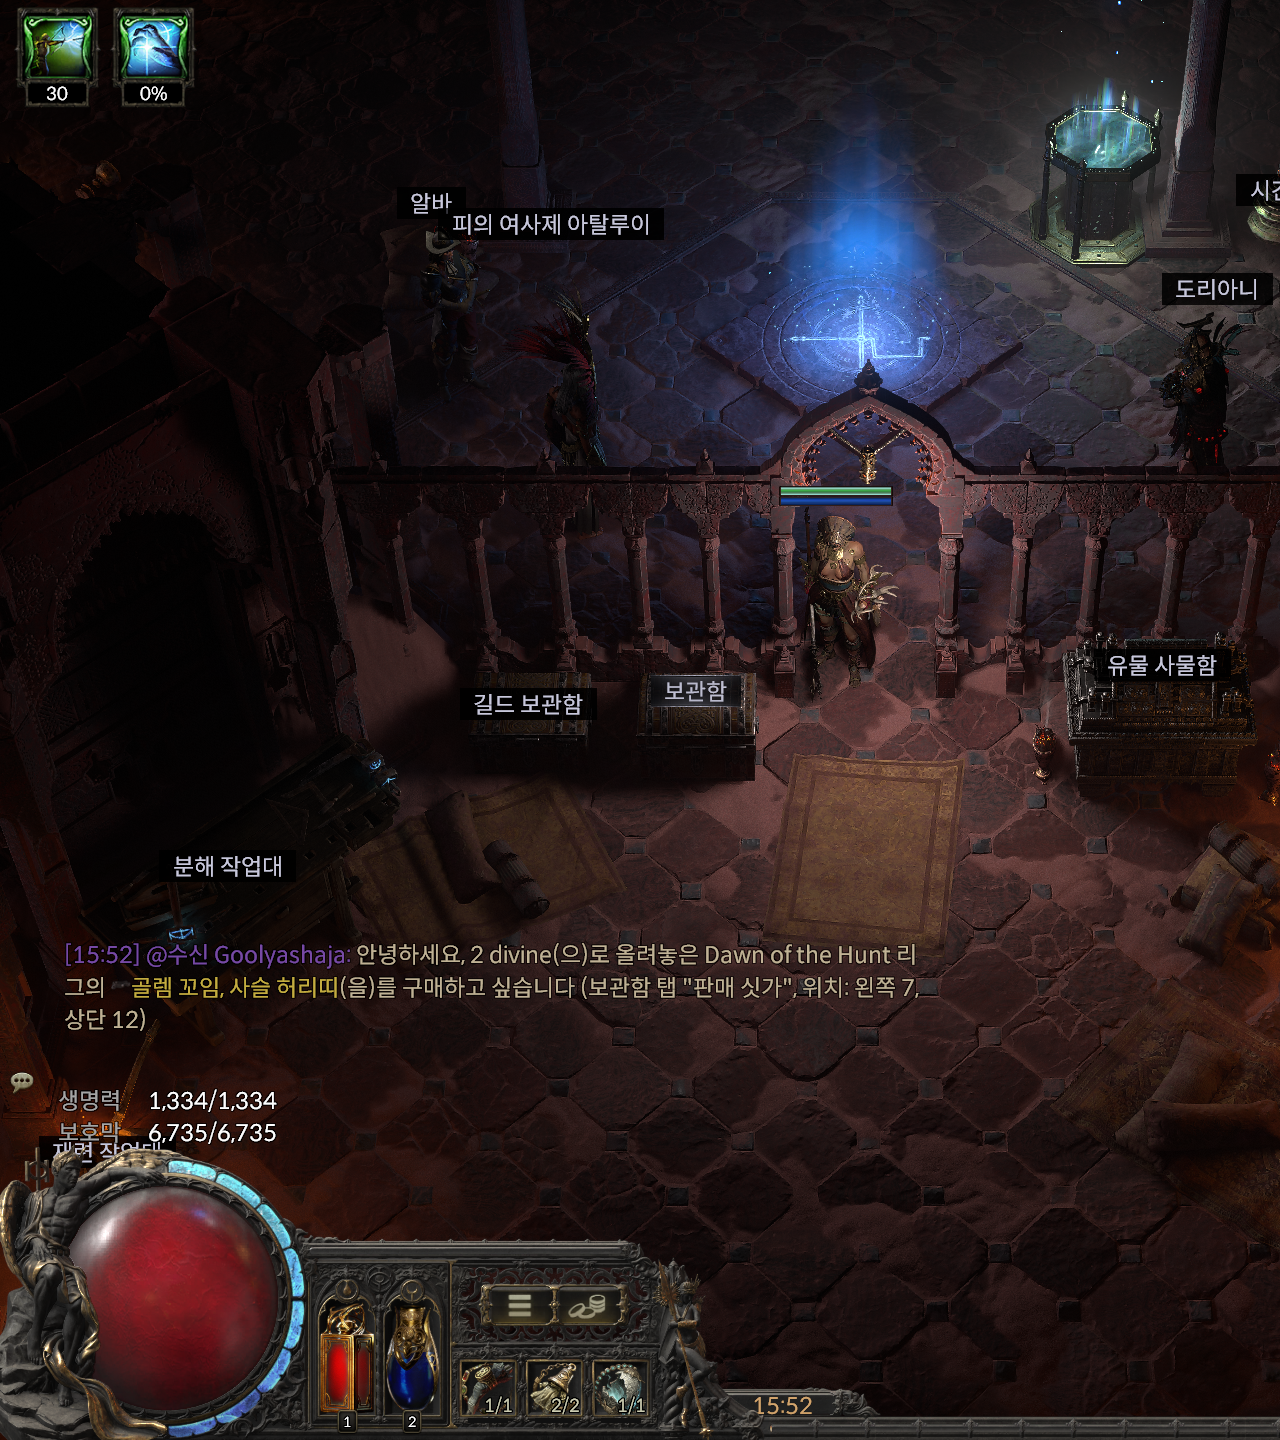
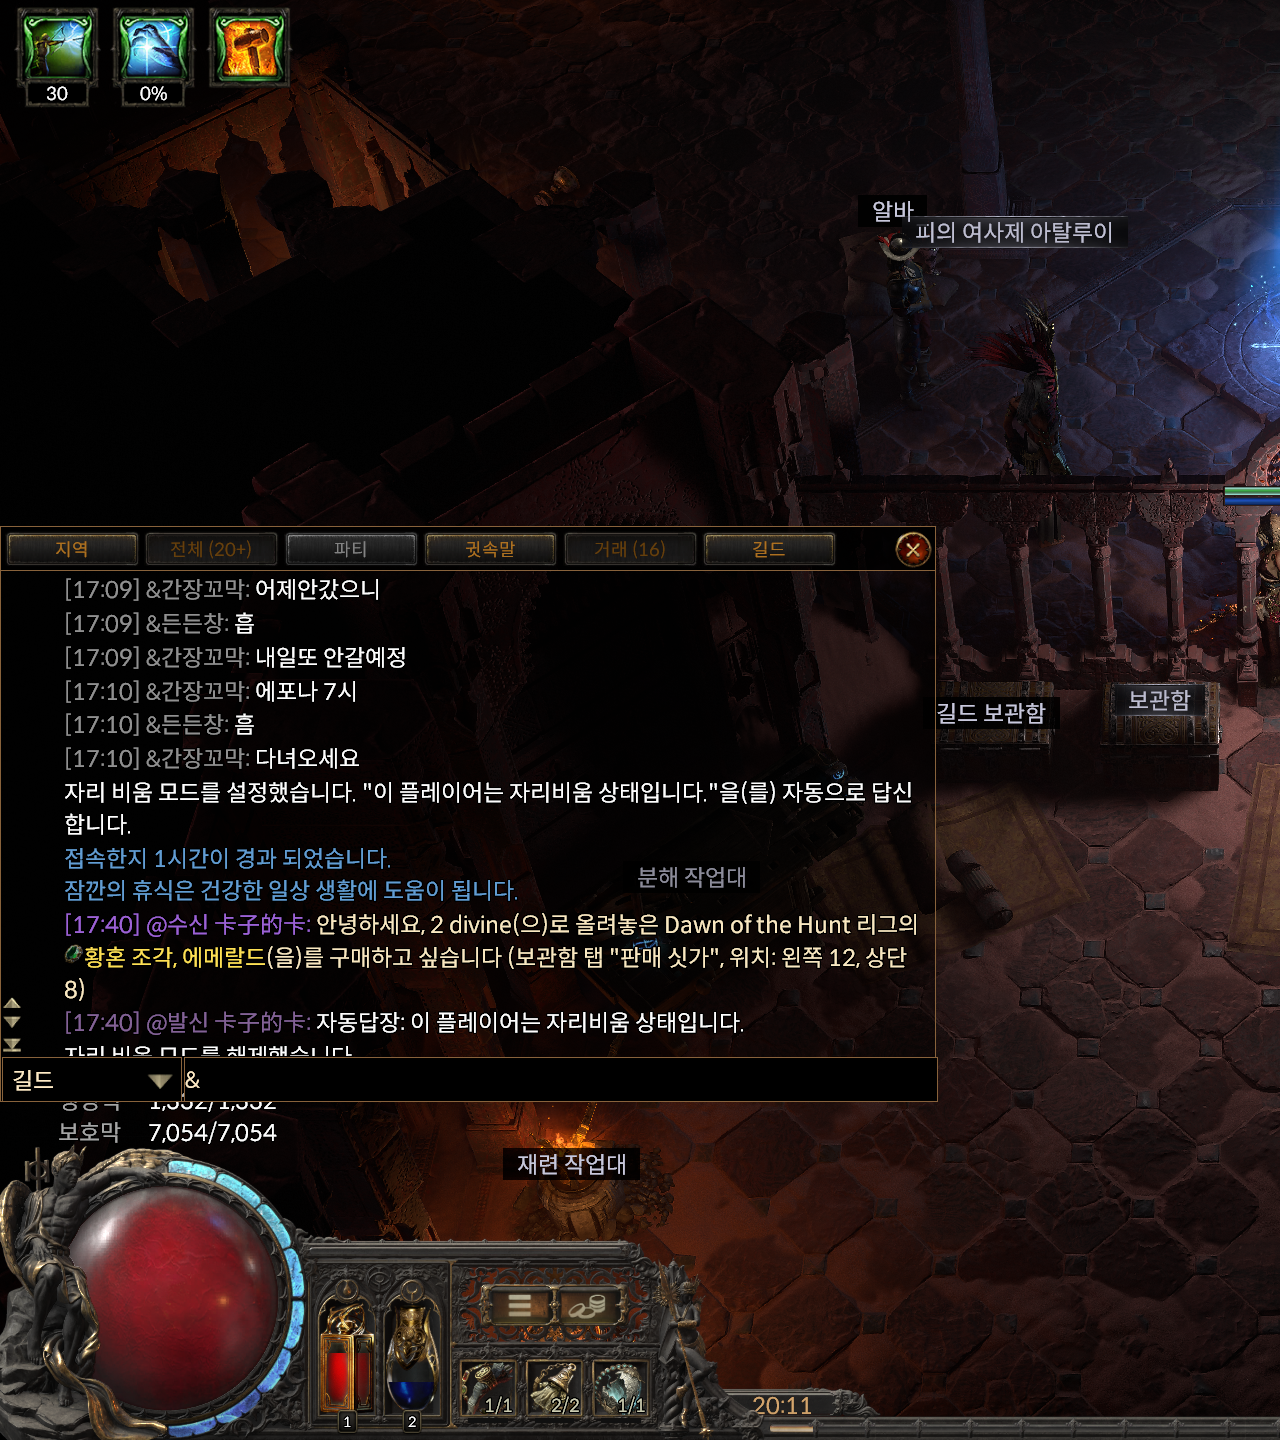
최근 메세지 시간에 맞추어 중복 전송 방지

diff --git a/Client/TextDetectorApplication.cpp b/Client/TextDetectorApplication.cpp
@@ -6,6 +6,7 @@
 #include <iostream>
 #include <curl/curl.h>
 #include <leptonica/allheaders.h>
+#include <regex>
 
 HWND TextDetectorApplication::hWnd = NULL;
 HWND TextDetectorApplication::hEditLog = NULL;
@@ -13,8 +14,10 @@ LogFuncPtr TextDetectorApplication::LogFunc = nullptr;
 LogTimeFuncPtr TextDetectorApplication::LogTimeFunc = nullptr;
 
 tesseract::TessBaseAPI* TextDetectorApplication::tessAPI = nullptr;
+std::wstring TextDetectorApplication::wLastDetectedTime = L"";
 bool TextDetectorApplication::bFirstLogDone = false;
 bool TextDetectorApplication::bClearLogDone = false;
+bool TextDetectorApplication::bAlreadySent = false;
 
 // 한글 변환 (wstring to utf8)
 std::string WStringToUtf8(const std::wstring& wstr)
@@ -35,13 +38,11 @@ void TextDetectorApplication::Initialize(HWND Input_hWnd, HWND Input_hEditLog, L
     LogTimeFunc = timefunc;
 
     // Tesseract API 초기화
+    // 실패시 1반환 -> 메세지 출력
     tessAPI = new tesseract::TessBaseAPI();
     if (tessAPI->Init("C:/Program Files/Tesseract-OCR/tessdata", "kor+eng"))
     {
-        if (LogFunc && LogTimeFunc)
-        {
-            LogFunc(hEditLog, LogTimeFunc() + L" Tesseract 초기화 실패\r\n");
-        }
+        MessageBox(nullptr, L"Tesseract 초기화 실패", L"Tesseract 초기화 실패", MB_OK);
         return;
     }
 }
@@ -79,6 +80,7 @@ void TextDetectorApplication::Run()
 
     if (dwNow - dwLastCaptureTime >= 5000) // 5초마다 캡처
     {
+        bAlreadySent = false;
         dwLastCaptureTime = dwNow;
         HBITMAP CaptureBMP = CaptureScreenToBitmap(); // 캡처 실행
         
@@ -151,19 +153,17 @@ void TextDetectorApplication::SendDiscordMessage(const std::wstring& message)
     curl_easy_setopt(curl, CURLOPT_URL, url);
     curl_easy_setopt(curl, CURLOPT_HTTPPOST, post);
 
-    // 텍스트용
-    //curl_easy_setopt(curl, CURLOPT_URL, url);
-    //curl_easy_setopt(curl, CURLOPT_HTTPHEADER, headers);
-    //curl_easy_setopt(curl, CURLOPT_POSTFIELDS, json_data.c_str());
-
+    // 메세지 전송 오류출력
     CURLcode res = curl_easy_perform(curl);
-    if (res != CURLE_OK) 
+    const char* errMsg = curl_easy_strerror(res);
+    if (res != CURLE_OK)
     {
-        // 에러 메세지 출력 필요
-        // 
-        //OutputDebugStringA("curl_easy_perform() failed: ");
-        //OutputDebugStringA(curl_easy_strerror(res));
-        //OutputDebugStringA("\n");
+        //wchar_t buffer[256];
+        //swprintf_s(buffer, 256, L"Discord 메세지 전송 실패\n오류코드: %d", static_cast<int>(res));
+        //MessageBox(nullptr, buffer, L"Discord 메세지 전송 실패", MB_OK);
+        wchar_t wideMsg[512];
+        swprintf_s(wideMsg, 512, L"Discord 메세지 전송 실패\n오류코드: %d\n설명: %S", res, errMsg);
+        MessageBox(nullptr, wideMsg, L"Discord 메세지 전송 실패", MB_OK);
     }
 
     curl_slist_free_all(headers);
@@ -180,19 +180,27 @@ void TextDetectorApplication::DoScreenOCR(cv::Mat image)
     std::wstring wText(utf8Len, 0);
     MultiByteToWideChar(CP_UTF8, 0, outText, -1, &wText[0], utf8Len);
 
-
-
-    if (wText.find(L"구매") != std::wstring::npos)
+    if (!bAlreadySent && wText.find(L"구매") != std::wstring::npos)
     {
-        if (LogFunc && LogTimeFunc)
-        {
-            LogFunc(hEditLog, LogTimeFunc() + L" 감지됨: 구매자 발견!\r\n");
-        }
+        // 최근 메세지 시간 받아오기
+        std::wstring latestTime;
+        GetDeliveryTime(wText, latestTime);
 
-        // 캡처이미지 저장
-        cv::imwrite("screenshot.png", image);
-        SendDiscordMessage(L"감지됨: 구매하고 싶습니다!");
-        //bAlreadySent = true;
+        if (!latestTime.empty() && latestTime != wLastDetectedTime)
+        {
+            // 최근 메세지 시간 저장
+            wLastDetectedTime = latestTime;
+
+            if (LogFunc && LogTimeFunc)
+            {
+                LogFunc(hEditLog, LogTimeFunc() + L" 감지됨: 구매자 발견!\r\n");
+            }
+
+            // 캡처이미지 저장
+            cv::imwrite("screenshot.png", image);
+            SendDiscordMessage(L"감지됨: 구매하고 싶습니다!");
+            bAlreadySent = true;
+        }
     }
 }
 
@@ -286,6 +294,36 @@ const std::wstring TextDetectorApplication::LoadWebhookFromFile()
     //return url;
 
     return std::wstring();
+}
+
+void TextDetectorApplication::GetDeliveryTime(const std::wstring& text, std::wstring& getTime)
+{
+    if (text.empty())
+    {
+        MessageBox(nullptr, L"TEXT 추출 실패", L"TEXT 내용 없음", MB_OK);
+        return ;
+    }
+
+    // 정규식을 이용해 [시:분] 형식의 문자열 찾기
+    std::wregex timeRegex(LR"(\[(\d{1,2}):(\d{2})\])");
+    std::wsregex_iterator iter(text.begin(), text.end(), timeRegex);
+    std::wsregex_iterator end;
+
+    int maxHour = -1, maxMinute = -1;
+
+    for (; iter != end; ++iter)
+    {
+        int hour = std::stoi((*iter)[1]);
+        int minute = std::stoi((*iter)[2]);
+
+        // 시간 비교
+        if (hour > maxHour || (hour == maxHour && minute > maxMinute))
+        {
+            maxHour = hour;
+            maxMinute = minute;
+            getTime = iter->str(); // [시:분] 전체 문자열
+        }
+    }
 }
 
 void TextDetectorApplication::Release()

diff --git a/Client/main.cpp b/Client/main.cpp
@@ -23,6 +23,7 @@ HWND hButtonSetWebhook;
 std::wstring g_WebhookUrl;
 
 bool bIsDetecting = false;
+const wchar_t* ORIGINAL_TITLE = L"POE2_TradeDetector";
 
 // 이 코드 모듈에 포함된 함수의 선언을 전달합니다:
 ATOM                MyRegisterClass(HINSTANCE hInstance);
@@ -160,7 +161,7 @@ BOOL InitInstance(HINSTANCE hInstance, int nCmdShow)
    int startX = screenX / 2; // 오른쪽 절반 시작 위치
    int startY = screenY / 4;
 
-   HWND hWnd = CreateWindowW(szWindowClass, L"POE2_Message", WS_OVERLAPPEDWINDOW,
+   HWND hWnd = CreateWindowW(szWindowClass, ORIGINAL_TITLE, WS_OVERLAPPEDWINDOW,
        startX + 50, startY, 500, 475, nullptr, nullptr, hInstance, nullptr);
 
    // 기능함수 초기화
@@ -179,9 +180,7 @@ BOOL InitInstance(HINSTANCE hInstance, int nCmdShow)
 
 LRESULT CALLBACK WndProc(HWND hWnd, UINT message, WPARAM wParam, LPARAM lParam)
 {
-
     static HWND hButtonStop;
-    static const wchar_t* ORIGINAL_TITLE = L"POE2_Message";
 
     switch (message)
     {

diff --git a/Client/TextDetectorApplication.h b/Client/TextDetectorApplication.h
@@ -28,9 +28,13 @@ public:
 	static void  CleanLogExceptLatestDetections();
 	// Webhook 링크 파일 체크
 	static const std::wstring LoadWebhookFromFile();
+    // 최근 메세지 도착시간 찾기
+    static void GetDeliveryTime(const std::wstring& text, std::wstring& getTime);
 
-	static bool bFirstLogDone;
+    static std::wstring wLastDetectedTime;
+    static bool bFirstLogDone;
 	static bool bClearLogDone;
+	static bool bAlreadySent;
 
 private:
 	static HWND hWnd;
